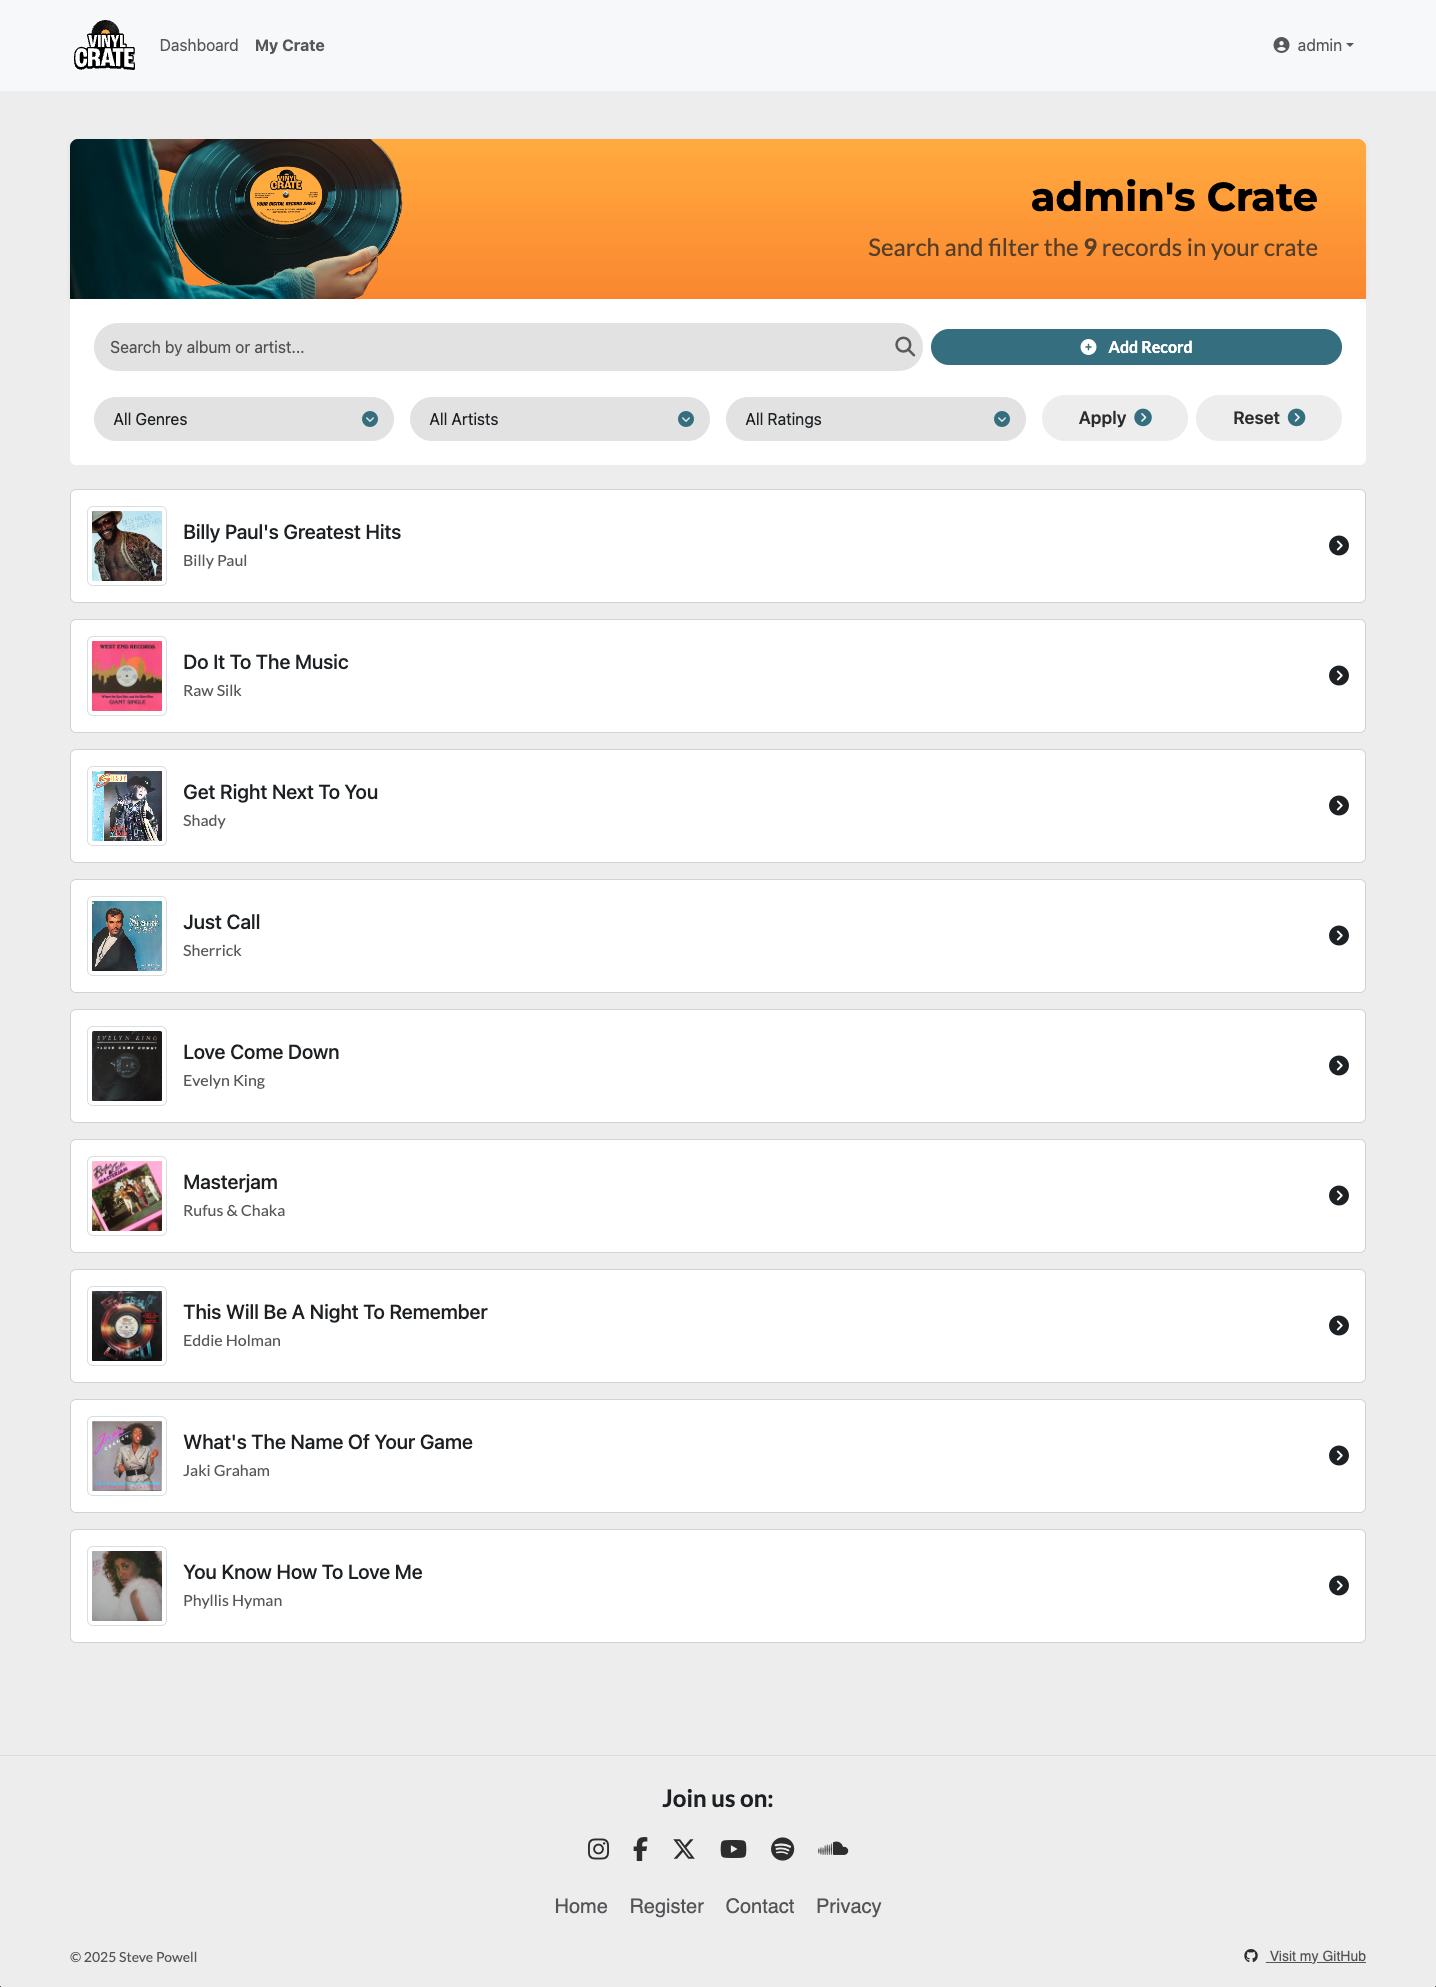
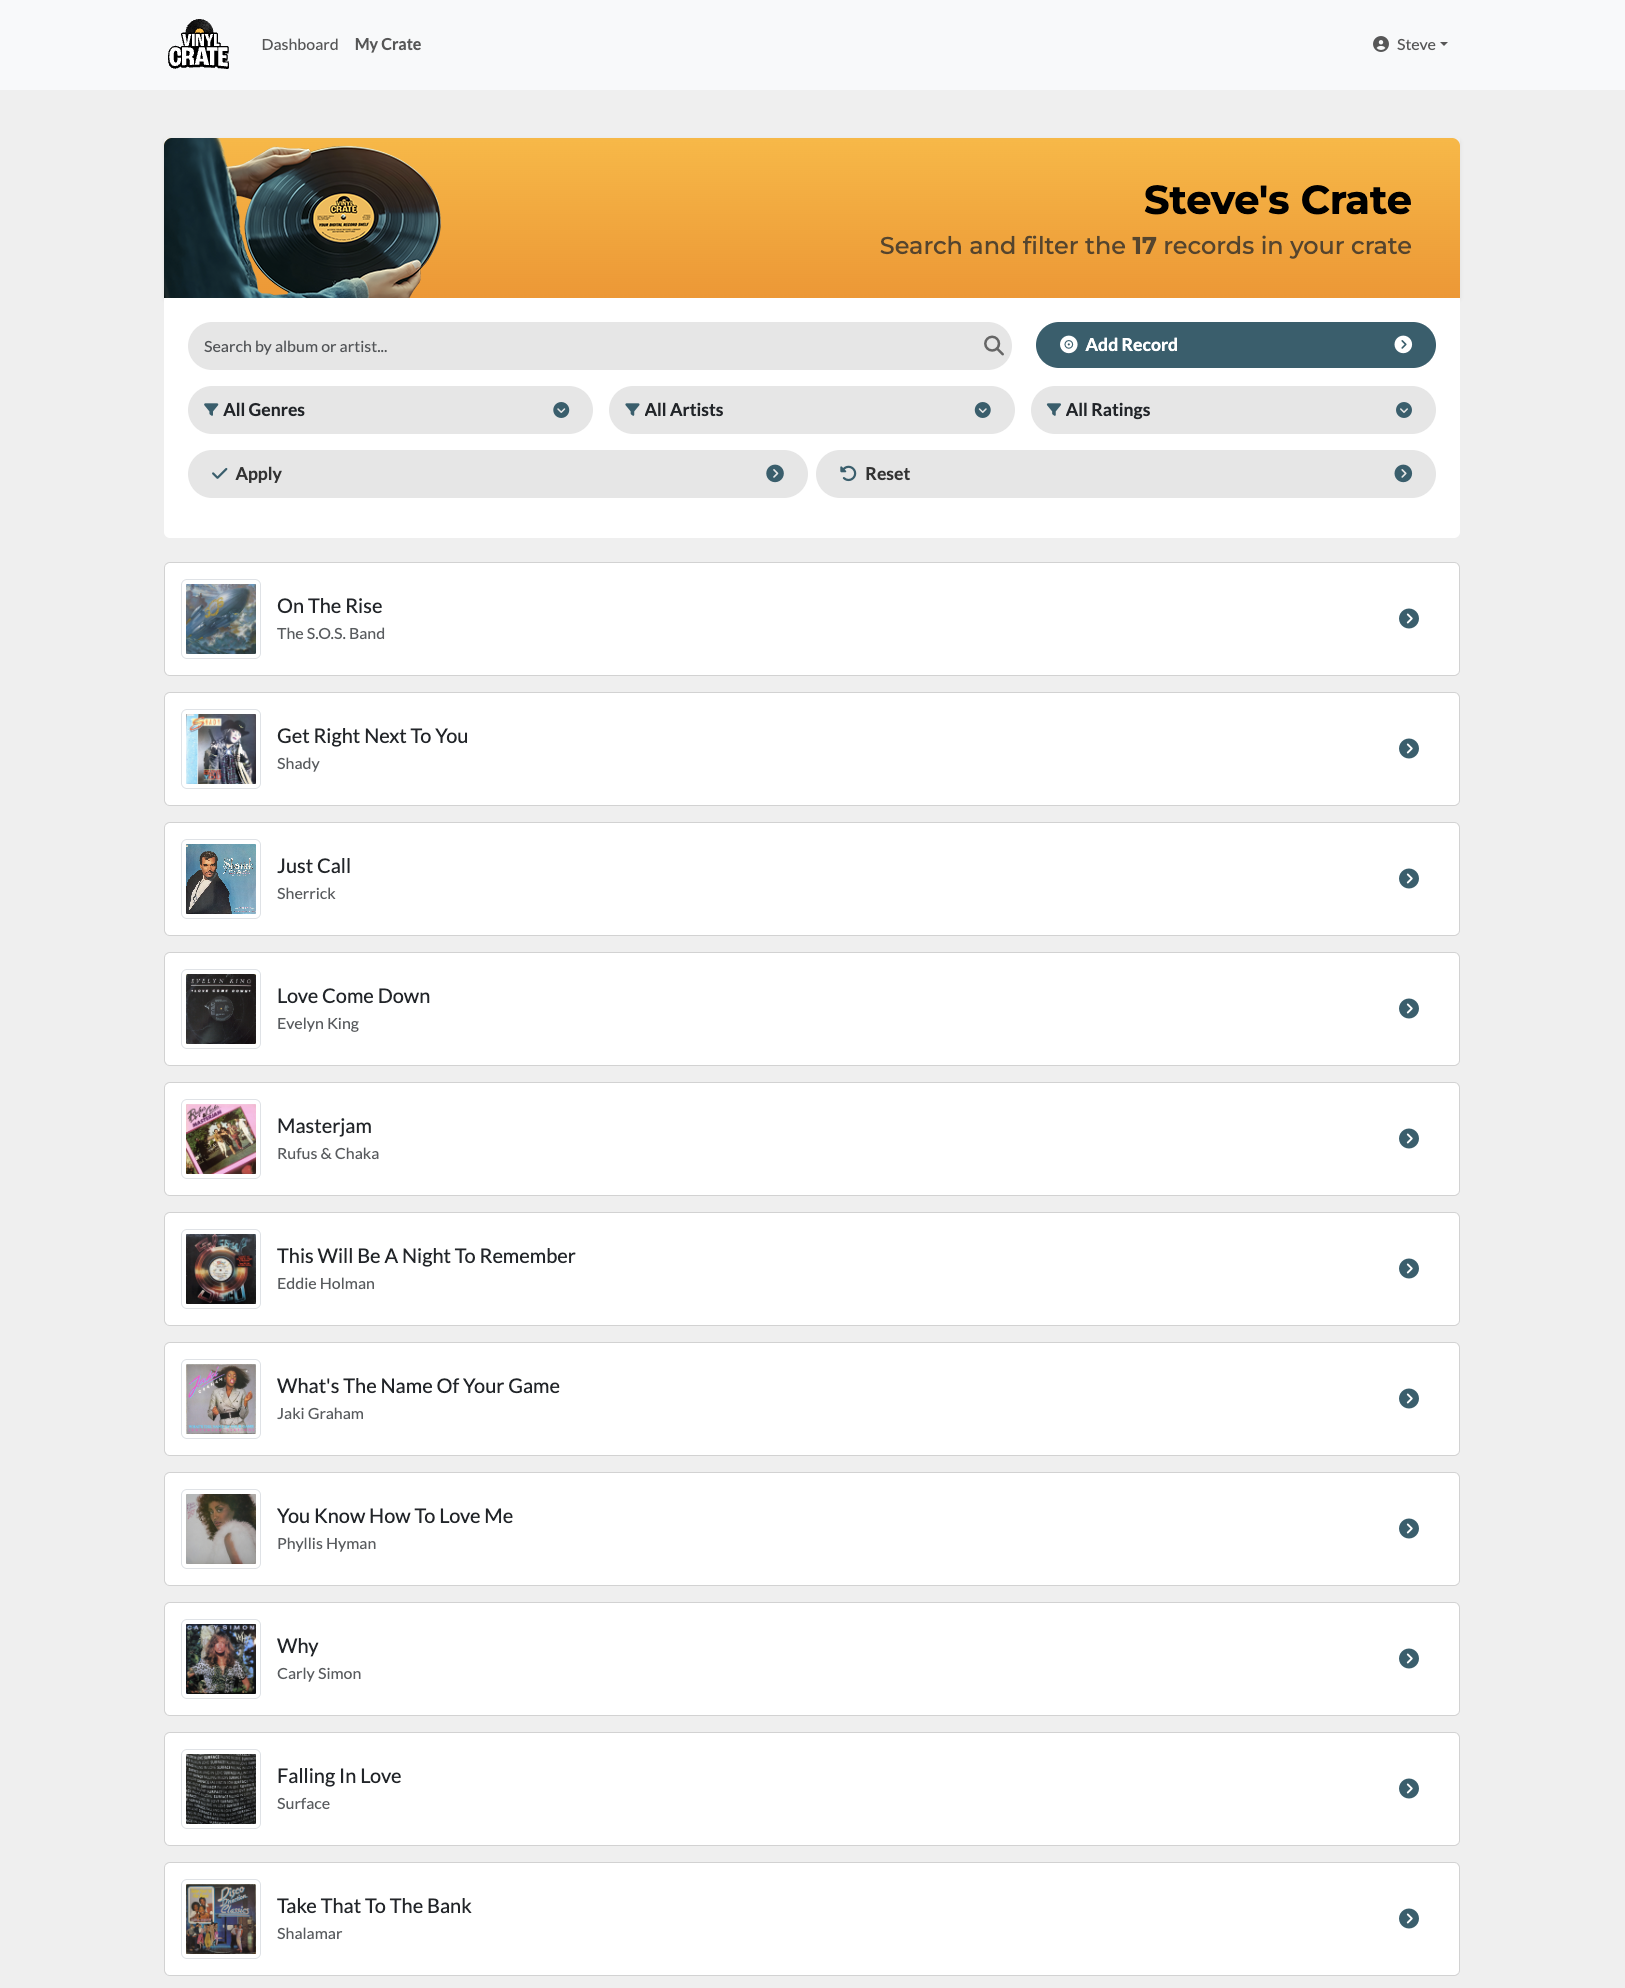
update My Crate and Record Detail README sections for clarity and UX alignment

diff --git a/records/templates/records/record_collection.html b/records/templates/records/record_collection.html
@@ -15,7 +15,7 @@
         <!-- Text Content -->
         <div class="welcome-banner-content text-center text-lg-end mx-auto mx-lg-0">
           <h1 class="banner-title">{{ user.first_name|default:user.username }}'s Crate</h1>
-          <h2 class="h5 text-muted fw-normal mb-0">
+          <h2 class="h4 text-muted mb-0">
             Search and filter the <strong>{{ total_records }}</strong> records in your crate
           </h2>
         </div>

diff --git a/README.md b/README.md
@@ -572,7 +572,9 @@ The dashboard acts as a central hub for Vinyl Crate users — helping them navig
 <details>
 <summary> Click here to view the My Crate page </summary>
 
-![My Crate page showing search, filters, and record cards on multiple devices](documentation/readme/surface_plane/features-mycrate.webp)
+![My Crate page showing search, filters, and record cards](documentation/readme/surface_plane/features-mycrate.webp)
+
+![My Crate page - user has no records](documentation/readme/surface_plane/features-mycrate-norecords.webp)
 
 </details>
 
@@ -584,7 +586,6 @@ The My Crate page serves as the core of the Vinyl Crate experience — a persona
   - Displays all records in the user’s collection as responsive, interactive cards.
   - Provides a search bar for quickly locating specific albums or artists.
   - Offers filters by genre, artist, and rating to narrow results.
-  - Enables sorting by: Newest Addition, Oldest Addition, Artist (A–Z), Artist (Z–A), Title (A–Z), and Title (Z–A).
   - Includes a clear **Add Record** button to grow the collection.
 
 - **User Benefits:**
@@ -592,6 +593,7 @@ The My Crate page serves as the core of the Vinyl Crate experience — a persona
   - Offers quick access to edit or view details for each record.
   - Makes it easy to discover trends, favourites, and gaps in their collection.
   - Mobile-friendly design ensures a seamless experience on any device.
+  - Provides a helpful fallback message for new users with no records, guiding them to start building their collection.
 
 - **Interactive Elements:**
   - Real-time search and filter inputs update the record list based on user selections.
@@ -614,27 +616,27 @@ This page transforms the idea of a traditional record shelf into a sleek, digita
 
 ---
 
-The Record Detail page is designed to showcase individual records with rich metadata and a full track listing, offering both aesthetic appeal and functional detail for collectors.
+The Record Detail page is designed to showcase individual records with rich metadata and a full track listing — offering both aesthetic appeal and practical detail for collectors.
 
 - **What it does:**
-  - Displays a large banner using the album’s artwork to create an immersive visual header.
+  - Displays a large banner featuring the album artwork for an immersive visual experience.
   - Shows key metadata including genre, release year, and user rating.
-  - Lists associated tracks with position, title, duration, and optional BPM/key data.
-  - Offers editing and deletion actions for the owner of the record.
+  - Lists associated tracks with position, title, duration, and optional BPM/key information.
+  - Enables editing and deletion of the record (restricted to the record owner).
 
 - **User Benefits:**
-  - Presents each record with a clean, focused layout that feels personal and polished.
-  - Allows easy management of each entry with intuitive controls.
-  - Helps users quickly assess the content of a record at a glance, supporting crate digging and browsing habits.
+  - Presents each record in a clean, focused layout that feels personal and polished.
+  - Allows quick and intuitive management of each entry.
+  - Helps users assess a record at a glance, supporting crate-digging and casual browsing.
 
 - **Interactive Elements:**
-  - Back button to return to the previous page.
-  - Album detail box with cover image, title, and artist.
-  - Metadata cards with clear visual grouping.
-  - Tracklist section styled for readability, with musical metadata.
-  - Edit and delete buttons (visible only to the record owner).
+  - A back button to return to the previous page.
+  - Album detail card showing the cover image, title, and artist.
+  - Metadata section with visually grouped cards.
+  - Tracklist styled for readability with optional musical metadata.
+  - Edit and delete buttons, visible only to the record owner.
 
-This page supports in-depth cataloguing, reflecting the physical experience of pulling a record from the shelf and exploring its contents — all within a responsive, streamlined interface.
+This page supports in-depth cataloguing, echoing the experience of pulling a record from the shelf and exploring its contents — all within a responsive, streamlined interface.
 
 <a id="record-track-forms"></a>
 

diff --git a/TESTING.md b/TESTING.md
@@ -1218,6 +1218,7 @@ Each page is styled with Bootstrap and includes a unique SVG image, helpful mess
 | 7 | Successful login redirects to home page instead of dashboard | Added `ACCOUNT_LOGIN_REDIRECT_URL = reverse_lazy('record_list')` to settings and removed conflicting duplicate `LOGIN_REDIRECT_URL = '/'` entry. Now both standard and allauth login flows direct users to their dashboard after login. | ![screenshot](documentation/testing/bugs/testing-login-redirect.webp) |
 | 8 | Record count in banner drops to 0 after filtering | Refactored record_collection view to store the total number of user records before filters are applied. Passed total_records separately to the template to display consistent banner stats regardless of filtered results. | ![screenshot](documentation/testing/bugs/testing-record-count.webp) |
 | 9 | Tooltips were not appearing on dynamically added remove (X) buttons in the track formset | Updated Bootstrap import to use the correct version with tooltips enabled. Ensured tooltips are re-initialized when new forms are added dynamically via JavaScript. | ![screenshot](documentation/testing/bugs/testing-tooltips-fix.webp) |
+| 10 | The "No records found" message in My Crate was shown when a user had never added a record, which was confusing. | Added a conditional check to display a more helpful onboarding message if the user has no records, and a filtering message only when filters return zero results. | ![screenshot](documentation/testing/bugs/testing-message-fix.webp) | 
 
 ---
 
